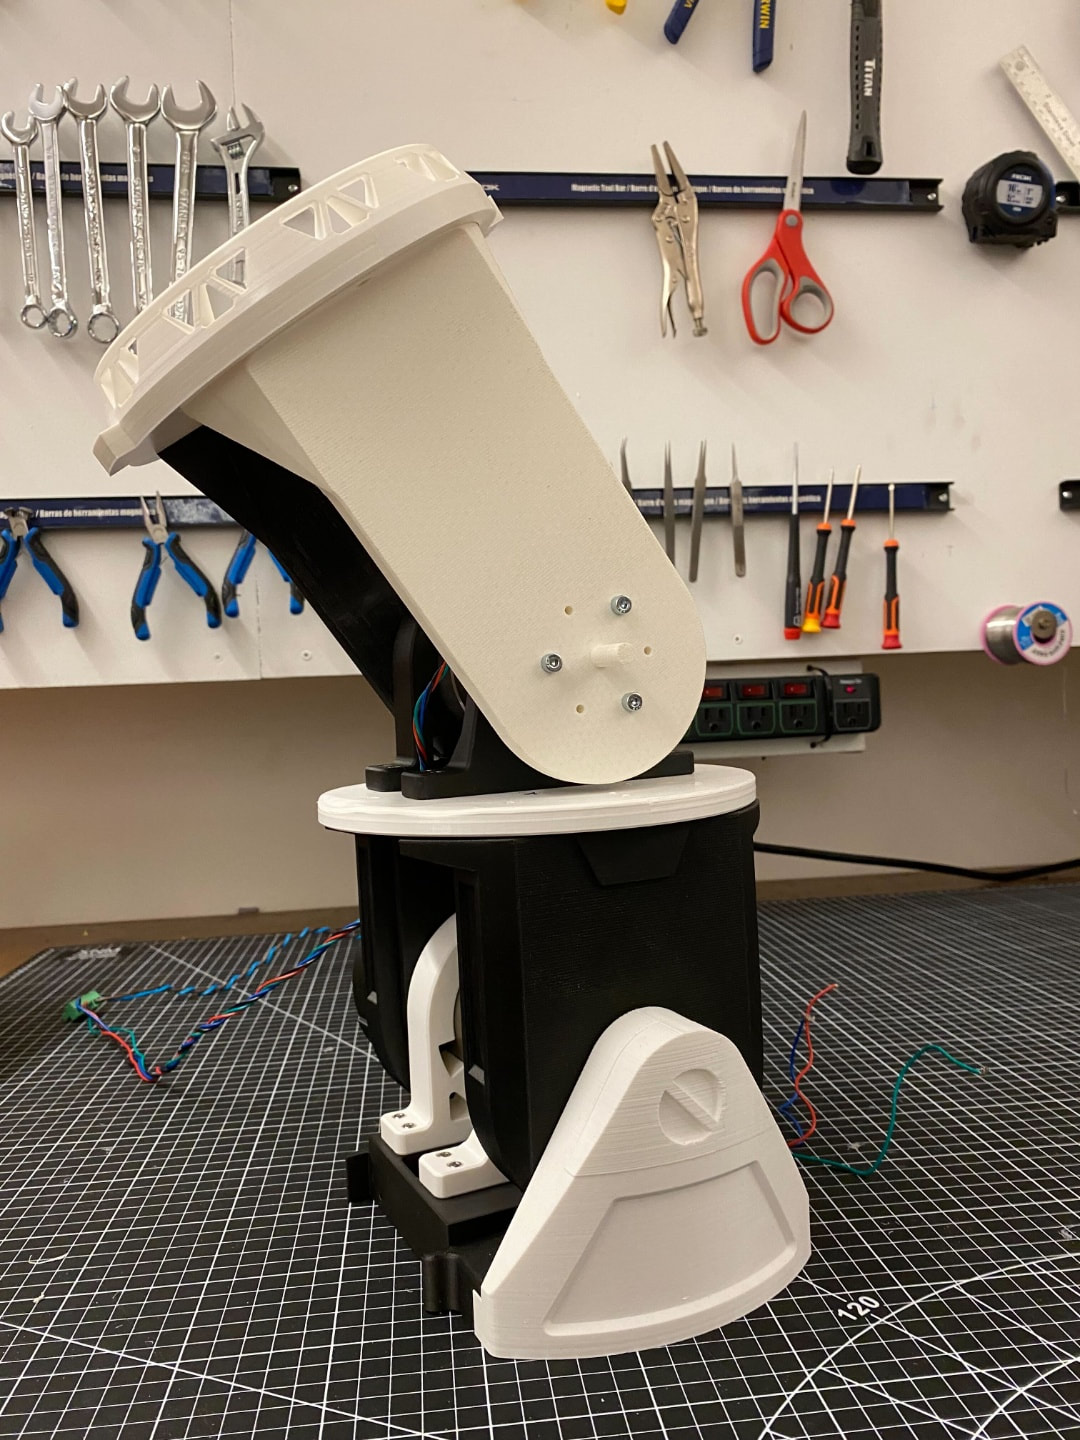
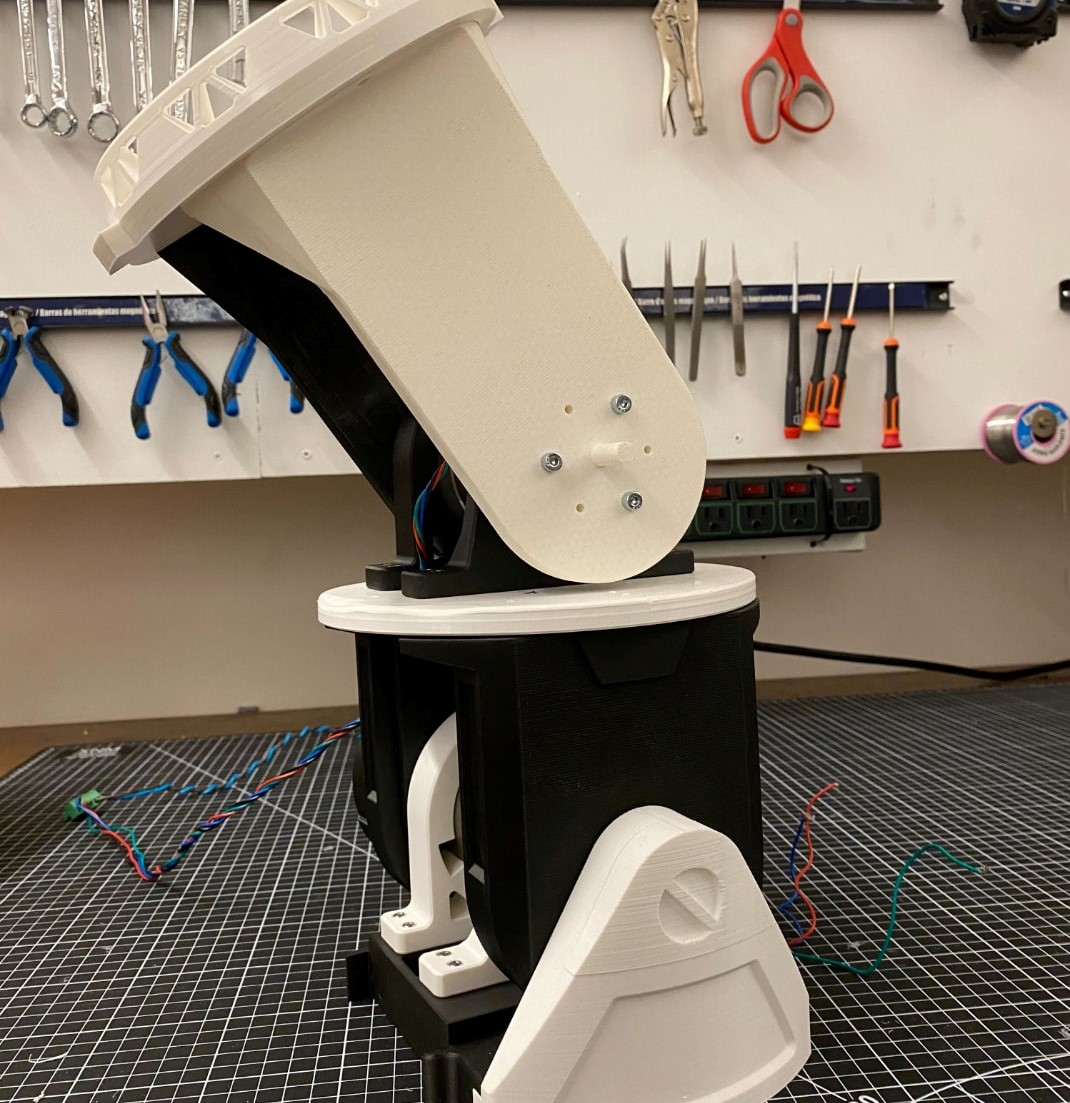
c

diff --git a/_projects/2022-02-00-Open_Robotics.md b/_projects/2022-02-00-Open_Robotics.md
@@ -2,7 +2,7 @@
 title: Open Robotics
 date: 2022-01-08 08:01:35 +0300
 subtitle: Design Team
-image: '/images/armprototype.tiff'
+image: '/images/armprototype.jpg'
 ---
 # The Challenge
 Designing a 6 degree of freedom robotic arm to be able to perform day-to-day tasks such as opening a door and picking up clothes
